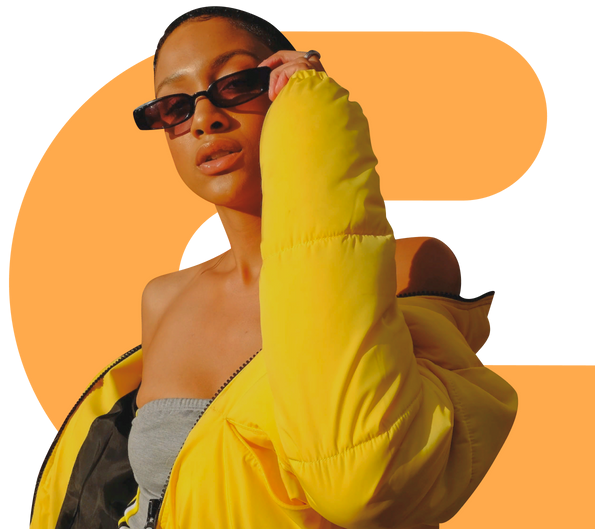
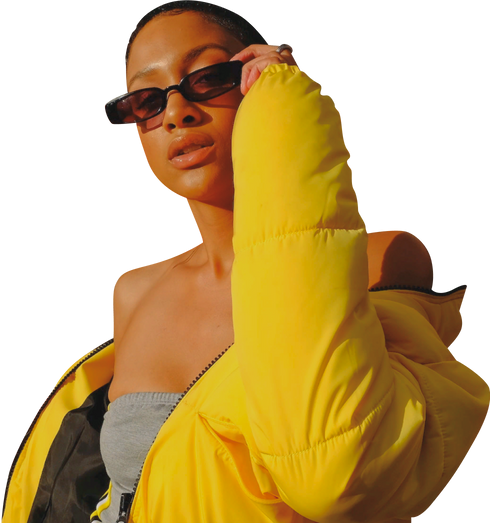
Deploying to gh-pages from @ karlbelousov/project-test@24bf2b9694bfdc0a4d0e1210f986a93ba6027265 🚀

diff --git a/css/style.css b/css/style.css
@@ -1,1 +1,1 @@
-@charset "UTF-8";*,::after,::before{box-sizing:border-box}.container{max-width:1320px;margin-left:auto;margin-right:auto}ul{margin:0;padding:0;list-style-type:none}button{padding:0;border:0;background-color:transparent;font-family:inherit;cursor:pointer}img{display:block;width:100%;height:auto}@font-face{font-family:"Outfit";src:url(../fonts/outfit/Outfit-Light.woff2)format("woff2"),url(../fonts/outfit/Outfit-Light.woff)format("woff");font-weight:300;font-style:normal;font-display:swap}@font-face{font-family:"Outfit";src:url(../fonts/outfit/Outfit-Bold.woff2)format("woff2"),url(../fonts/outfit/Outfit-Bold.woff)format("woff");font-weight:700;font-style:normal;font-display:swap}@font-face{font-family:"Outfit";src:url(../fonts/outfit/Outfit-Medium.woff2)format("woff2"),url(../fonts/outfit/Outfit-Medium.woff)format("woff");font-weight:500;font-style:normal;font-display:swap}@font-face{font-family:"Outfit";src:url(../fonts/outfit/Outfit-Regular.woff2)format("woff2"),url(../fonts/outfit/Outfit-Regular.woff)format("woff");font-weight:400;font-style:normal;font-display:swap}@font-face{font-family:"Outfit";src:url(../fonts/outfit/Outfit-SemiBold.woff2)format("woff2"),url(../fonts/outfit/Outfit-SemiBold.woff)format("woff");font-weight:600;font-style:normal;font-display:swap}.header{margin-bottom:62px}.header__nav{display:flex;justify-content:space-between;align-items:center;padding:7px 0}.page{height:100%}.page__body{margin:0;background-color:#181818;color:#fff;font-family:"Outfit",sans-serif;font-size:24px;line-height:29px;font-weight:400;display:grid;grid-template-rows:auto 1fr auto;min-height:100vh}.tabs{background-color:#ffaa4c;min-height:38px}.tabs__list{display:flex}.tabs__button{padding:9px 40px;font-size:16px;font-weight:500;line-height:20px}.button,.tabs__button--active{background-color:#181818;color:#fff;border-radius:20px 20px 0 0}.button{background-color:#954ced;font-size:20px;font-weight:600;line-height:25px;padding:16px 30px;border-radius:16px}.logo,.logo__image{display:block;width:155px;height:49px}.hero{width:100%;display:grid;grid-template-columns:671px 1fr;column-gap:64px;margin-bottom:100px}.hero__body{max-width:671px;padding-top:20px;padding-left:50px}.hero__title{font-size:96px;font-weight:700;line-height:101px;margin:0 0 20px}.hero__description{font-size:20px;line-height:24px;margin:0 0 40px}.hero__image{width:595px;height:529px}.about{margin-bottom:100px;background-image:url(../images/icons/stack.svg#about);background-size:423px 489px;background-repeat:no-repeat;background-position:left 0 bottom 0;padding-bottom:36px}.about__title{font-size:96px;font-weight:700;line-height:101px;margin:0 0 80px}.about__inner{display:grid;grid-template-columns:410px 1fr;column-gap:118px}.about__text{max-width:410px;font-size:36px;font-weight:600;line-height:45px;margin:0}.about__text-span{position:relative}.about__text-span::before{position:absolute;content:"";width:354px;height:34px;z-index:0;top:10px;left:0;background-color:#a64ced;border-radius:30px;transform:rotate(-1.6deg)}.about__text-span span{position:relative;z-index:1}.about-list{display:grid;grid-template-columns:1fr 1fr;gap:70px}.about-list__item{max-width:336px;padding-top:110px;background-position:top 0 left 0;background-size:100px 100px;background-repeat:no-repeat}.about-list__item--contactless{background-image:url(../images/icons/stack.svg#contactless)}.about-list__item--increased{background-image:url(../images/icons/stack.svg#increased)}.about-list__item--analytics{background-image:url(../images/icons/stack.svg#analytics)}.about-list__item--fraud{background-image:url(../images/icons/stack.svg#fraud)}.about-list__title{font-size:48px;font-weight:700;line-height:51px;margin:0 0 20px}.about-list__text{margin:0}
+@charset "UTF-8";@keyframes titleScrollRight{0%{right:0}to{right:-3200px}}@keyframes titleScrollLeft{0%{left:0}to{left:-3200px}}*,::after,::before{box-sizing:border-box}.container{max-width:1320px;margin:0 auto}ul{margin:0;padding:0;list-style-type:none}button{display:inline-block;padding:0;border:0;background-color:transparent;font-family:inherit;cursor:pointer}img{display:block;width:100%;height:auto}.visually-hidden{position:absolute;width:1px;height:1px;margin:-1px;border:0;padding:0;white-space:nowrap;-webkit-clip-path:inset(100%);clip-path:inset(100%);clip:rect(0 0 0 0);overflow:hidden}@font-face{font-family:"Outfit";src:url(../fonts/outfit/Outfit-Light.woff2)format("woff2"),url(../fonts/outfit/Outfit-Light.woff)format("woff");font-weight:300;font-style:normal;font-display:swap}@font-face{font-family:"Outfit";src:url(../fonts/outfit/Outfit-Bold.woff2)format("woff2"),url(../fonts/outfit/Outfit-Bold.woff)format("woff");font-weight:700;font-style:normal;font-display:swap}@font-face{font-family:"Outfit";src:url(../fonts/outfit/Outfit-Medium.woff2)format("woff2"),url(../fonts/outfit/Outfit-Medium.woff)format("woff");font-weight:500;font-style:normal;font-display:swap}@font-face{font-family:"Outfit";src:url(../fonts/outfit/Outfit-Regular.woff2)format("woff2"),url(../fonts/outfit/Outfit-Regular.woff)format("woff");font-weight:400;font-style:normal;font-display:swap}@font-face{font-family:"Outfit";src:url(../fonts/outfit/Outfit-SemiBold.woff2)format("woff2"),url(../fonts/outfit/Outfit-SemiBold.woff)format("woff");font-weight:600;font-style:normal;font-display:swap}.header{margin-bottom:62px}.header__nav{display:flex;justify-content:space-between;align-items:center;padding:7px 20px}.page{height:100%}.page__body{margin:0;background-color:#181818;color:#fff;font-family:"Outfit",sans-serif;font-size:24px;line-height:29px;font-weight:400;display:grid;grid-template-rows:auto 1fr auto;min-height:100vh}.tabs{background-color:#ffaa4c;min-height:38px}.tabs__list{display:flex}.tabs__button{padding:9px 40px;font-size:16px;font-weight:500;line-height:20px}.button,.tabs__button--active{background-color:#181818;color:#fff;border-radius:20px 20px 0 0}.button{background-color:#954ced;font-size:20px;font-weight:600;line-height:25px;padding:16px 30px;border-radius:16px}.logo,.logo__image{display:block;width:155px;height:49px}.hero{width:100%;display:grid;grid-template-columns:671px 1fr;column-gap:64px;margin-bottom:100px;padding-right:17px;background-image:url(../images/icons/stack.svg#promo);background-size:contain;background-position:350px center;background-repeat:no-repeat}.hero__body{max-width:671px;padding-top:20px;padding-left:50px}.hero__title{font-size:96px;font-weight:700;line-height:101px;margin:0 0 20px}.hero__description{font-size:20px;line-height:24px;margin:0 0 40px}.hero__image{width:490px;height:611px}.about{margin-bottom:100px;background-image:url(../images/icons/stack.svg#about);background-size:423px 489px;background-repeat:no-repeat;background-position:left 0 bottom 0;padding-bottom:36px}.about__title{font-size:96px;font-weight:700;line-height:101px;margin:0 0 80px}.about__inner{display:grid;grid-template-columns:410px 1fr;column-gap:118px}.about__text{max-width:410px;font-size:36px;font-weight:600;line-height:45px;margin:0}.about__text-span{position:relative}.about__text-span::before,.why-budss__span::before{position:absolute;content:"";width:354px;height:34px;z-index:0;top:10px;left:0;background-color:#a64ced;border-radius:30px;transform:rotate(-1.6deg)}.about__text-span span,.why-budss__span span{position:relative;z-index:1}.about-list{display:grid;grid-template-columns:1fr 1fr;gap:70px}.about-list__item{max-width:336px;padding-top:110px;background-position:top 0 left 0;background-size:100px 100px;background-repeat:no-repeat}.about-list__item--contactless{background-image:url(../images/icons/stack.svg#contactless)}.about-list__item--increased{background-image:url(../images/icons/stack.svg#increased)}.about-list__item--analytics{background-image:url(../images/icons/stack.svg#analytics)}.about-list__item--fraud{background-image:url(../images/icons/stack.svg#fraud)}.about-list__title{font-size:48px;font-weight:700;line-height:51px;margin:0 0 20px}.about-list__text{margin:0}.how-works,.how-works__inner{position:relative;overflow:hidden}.how-works{margin-bottom:100px}.how-works__inner{padding:46px 0}.how-works__title{position:relative;font-size:128px;font-weight:700;line-height:136px;margin:0}.how-works__title+.how-works__title{margin-top:68px}.how-works__title--secondary-01{color:#2fdbbc;animation:titleScrollRight 10s linear infinite}.how-works__title--primary-02{color:#a64ced;animation:titleScrollLeft 10s linear infinite}.how-works__title--secondary-02{color:#ffaa4c;animation:titleScrollRight 10s linear infinite}.how-works__image{position:absolute;width:308px;height:623px;top:0;left:50%;transform:translateX(-50%)}.stats{background-color:#954ced;padding:40px 0;margin-bottom:100px}.stats__list{display:flex;justify-content:center;column-gap:100px}.stats__list-item{max-width:220px}.stats__percent{font-size:64px;line-height:68px;font-weight:700;margin-bottom:16px}.stats__description{font-weight:600;margin:0}.why-budss{padding-bottom:100px}.why-budss__header{max-width:664px;margin:0 auto 70px;text-align:center}.why-budss__title{font-size:64px;line-height:68px;font-weight:700;margin:0 0 20px}.why-budss__description{font-size:36px;line-height:45px;font-weight:600;margin:0}.why-budss__span{position:relative}.why-budss__span::before{width:387px;top:12px;left:-.24px}.why-budss__list{display:flex;flex-wrap:wrap;align-items:center;gap:20px}.card-budss{background-color:#f5f5f5;color:#000;border-radius:30px;min-height:362px}.card-budss--1,.card-budss--4{width:733px}.card-budss--2,.card-budss--3{width:547px}.card-budss--1{position:relative}.card-budss--1 .card-budss__content{padding-left:329px}.card-budss--1 img{position:absolute;top:0;left:0;width:318px;height:365px;border-radius:30px 0 0 30px}.card-budss--2{background-image:url(../images/icons/stack.svg#cards-budss-1),url(../images/icons/stack.svg#cards-budss-2),url(../images/icons/stack.svg#cards-budss-3);background-position:right 80px,394px bottom,92px bottom;background-repeat:no-repeat;background-size:88px 167px,93px 86px,72px 64px}.card-budss--3,.card-budss--4{background-image:url(../images/icons/stack.svg#cards-budss-4);background-position:right bottom;background-repeat:no-repeat;background-size:202px 83px}.card-budss--4{background-image:url(../images/icons/stack.svg#cards-budss-5);background-position:480px bottom;background-size:210px 301px}.card-budss__content{padding-left:40px;padding-top:40px}.card-budss__title{font-size:48px;line-height:60px;font-weight:600;margin:0 0 20px}.card-budss__desctription{font-size:20px;line-height:24px;margin:0}.business-grow{background-color:#f5f5f5;color:#181818;text-align:center;padding-top:160px;padding-bottom:60px}.business-grow__title{font-size:64px;line-height:68px;font-weight:700;margin:0 0 40px}.brands{background-color:#f5f5f5;color:#000;padding:100px 0}.brands__inner{display:grid;grid-template-columns:830px auto;margin-bottom:100px}.brands__content{max-width:822px}.brands__title{font-size:96px;line-height:102px;font-weight:700;margin:0 0 20px}.brands__description{max-width:537px;font-size:20px;line-height:24px;margin:0}.brands__social{padding:45px 0}.brands__logo{display:flex;align-items:center;justify-content:space-between}.social-list{display:flex;gap:40px}.social-list__item{width:90px;height:90px;border-radius:50%;background-color:#954ced}.social-list__item:nth-child(even){align-self:flex-end}.social-list__item:nth-child(1) img{width:39px;height:72px;align-self:flex-end}.social-list__item:nth-child(2) img{height:36px}.social-list__link{display:flex;align-items:center;justify-content:center;width:90px;height:90px}.social-list__link img{width:45px;height:45px}.footer{width:100%;padding-top:40px;padding-bottom:21px}.footer__nav{display:flex;justify-content:space-between}.footer__menu{display:flex;align-items:center}.footer_menu-item{margin-right:40px;font-size:20px;line-height:25px}.footer_menu-item a{color:inherit;text-decoration:none}.footer__buttons{display:flex;align-items:center;column-gap:20px}.footer__button{font-size:20px;line-height:25px;width:195px;height:57px;background-color:#242424;color:#fff}.footer__button--appstore{background-image:url(../images/icons/stack.svg#appstore)}.footer__button--googleplay{background-image:url(../images/icons/stack.svg#googleplay)}.footer__bottom{display:flex;align-items:center;justify-content:space-between;font-size:14px;font-weight:300;line-height:20px}.footer__links{display:inline-flex;column-gap:20px}.footer__links a{text-decoration:underline;color:inherit}

diff --git a/index.html b/index.html
@@ -3,7 +3,7 @@
   <head>
     <meta charset="UTF-8">
     <title>Business</title>
-    <meta name="viewport" content="width=device-width,initial-scale=1">
+    <meta name="viewport" content="width=device-width, initial-scale=1.0">
     <link rel="stylesheet" href="css/style.css">
   </head>
   <body class="page__body">
@@ -20,7 +20,7 @@
       </div>
       <nav class="header__nav container">
         <a class="logo" href="">
-          <img class="logo__image" width="155" height="49" src="./images/logo.svg" alt="budss">
+          <img class="logo__image" width="155" height="49" src="./images/icons/stack.svg#logo" alt="budss">
         </a>
         <button class="header__button button" type="button">Contact sales</button>
       </nav>
@@ -33,11 +33,10 @@
              and retention of customers to your business.</p>
           <button class="hero__button button" type="button">Contact sales</button>
         </div>
-        <img class="hero__image" width="595" height="529" src="./images/promo-img@1x.png" alt="">
+        <img class="hero__image" width="489" height="610" src="./images/promo-img@1x.png" alt="">
       </section>
-      <section class="about">
-        <div class="container">
-          <h2 class="about__title">About Budss</h2>
+      <section class="about container">
+        <h2 class="about__title">About Budss</h2>
         <div class="about__inner">
           <p class="about__text">Payment as a service, powered seamlessly by our
             <span class="about__text-span">
@@ -64,12 +63,171 @@
            </li>
           </ul>
         </div>
+      </section>
+      <section class="how-works">
+       <h2 class="visually-hidden">How works</h2>
+       <div class="how-works__inner container">
+        <p class="how-works__title how-works__title--secondary-01">How Budss Works</p>
+        <p class="how-works__title how-works__title--primary-02">How Budss Works</p>
+        <p class="how-works__title how-works__title--secondary-02">How Budss Works</p>
+       </div>
+       <img class="how-works__image" width="308" height="623" src="./images/how-works@1x.png" alt="">
+      </section>
+      <section class="stats">
+        <h2 class="visually-hidden">Stats</h2>
+        <dl class="stats__list">
+          <div class="stats__list-item">
+            <dt class="stats__percent">15%</dt>
+            <dd class="stats__description">Increase<br> in Purchase Amount</dd>
+          </div>
+          <div class="stats__list-item">
+            <dt class="stats__percent">30%</dt>
+            <dd class="stats__description">Growth<br> in Annual Sales</dd>
+          </div>
+          <div class="stats__list-item">
+            <dt class="stats__percent">10%</dt>
+            <dd class="stats__description">Growth in New<br>Customers</dd>
+          </div>
+        </dl>
+      </section>
+      <section class="why-budss">
+        <div class="why-budss__header">
+          <h2 class="why-budss__title">Why Budss</h2>
+          <p class="why-budss__description">
+            We Provide Advanced Payment Solutions<br>
+            <span class="why-budss__span"><span>To Grow Your Business</span></span>
+          </p>
+        </div>
+        <ul class="why-budss__list container">
+          <li class="why-budss__item">
+            <article class="card-budss card-budss--1">
+              <img width="318" height="362" src="./images/card-budds-1@1x.png" alt="">
+              <div class="card-budss__content">
+                <h3 class="card-budss__title">Turn your customers into loyal influencers</h3>
+                <p class="card-budss__desctription">Budss helps businesses harness the<br> exponential power of
+                  loyal customers<br> for acquisition and retention.
+                </p>
+              </div>
+            </article>
+          </li>
+          <li class="why-budss__item">
+            <article class="card-budss card-budss--2">
+              <div class="card-budss__content">
+                <h3 class="card-budss__title">Harness the power<br> of buying in bulk</h3>
+                <p class="card-budss__desctription">Get at least 2X more sales with Budss Buying<br> Groups.
+                  Your customer base will grow<br> exponentially as your customers add their<br> friends &
+                  family to your personalized group.
+                </p>
+              </div>
+            </article>
+          </li>
+          <li class="why-budss__item">
+            <article class="card-budss card-budss--3">
+              <div class="card-budss__content">
+                <h3 class="card-budss__title">Supercharge<br> Loyalty With Instant<br> Cash Back</h3>
+                <p class="card-budss__desctription">Budss allows for shoppers to earn<br> immediate cash back at their<br>
+                  favorite stores.</p>
+              </div>
+            </article>
+          </li>
+          <li class="why-budss__item">
+            <article class="card-budss card-budss--4">
+              <div class="card-budss__content">
+                <h3 class="card-budss__title">Seasoned with AI<br> and Gamification</h3>
+                <p class="card-budss__desctription">AI programming creates a personalized<br> customer journey,
+                  offering recommendations<br> for their next purchase and optimizing<br> rewards for after purchase.
+                </p>
+              </div>
+            </article>
+          </li>
+        </ul>
+      </section>
+      <section class="business-grow">
+        <h2 class="business-grow__title">Let Your Business Grow</h2>
+        <button class="business-grow__button button" type="button">Contact sales</button>
+      </section>
+      <section class="brands">
+        <div class="container">
+          <div class="brands__inner">
+            <div class="brands__content">
+              <h2 class="brands__title">Your Brand<br> Awareness Maters</h2>
+              <p class="brands__description">Budss is a husle free solution to put your brand on any
+                 digital surface including Instagram, Facebook, Twitter and TikTok
+              </p>
+            </div>
+            <ul class="brands__social social-list">
+              <li class="social-list__item">
+                <a class="social-list__link" href="">
+                  <img src="./images/icons/stack.svg#facebook" width="38" height="72" alt="Facebook">
+                </a>
+              </li>
+              <li class="social-list__item">
+                <a class="social-list__link" href="">
+                  <img src="./images/icons/stack.svg#twitter" width="45" height="36" alt="Twitter">
+                </a>
+              </li>
+              <li class="social-list__item">
+                <a class="social-list__link" href="">
+                  <img src="./images/icons/stack.svg#instagram" width="45" height="45" alt="Instagram">
+                </a>
+              </li>
+              <li class="social-list__item">
+                <a class="social-list__link" href="">
+                  <img src="./images/icons/stack.svg#tiktok" width="38" height="45" alt="TikTok">
+                </a>
+              </li>
+            </ul>
+          </div>
+          <ul class="brands__logo">
+            <li class="brands__logo-item">
+              <img src="./images/logo-brand1.svg" width="126" height="60" alt="Woo Commerce">
+            </li>
+            <li class="brands__logo-item">
+              <img src="./images/logo-brand2.svg" width="209" height="60" alt="Spotify">
+            </li>
+            <li class="brands__logo-item">
+              <img src="./images/logo-brand3.svg" width="182" height="48" alt="Square">
+            </li>
+            <li class="brands__logo-item">
+              <img src="./images/logo-brand4.svg" width="277" height="44" alt="Squarespace">
+            </li>
+            <li class="brands__logo-item">
+              <img src="./images/logo-brand5.svg" width="184" height="46" alt="Clover">
+            </li>
+          </ul>
         </div>
       </section>
-      <section>
-
-      </section>
     </main>
+    <footer class="footer container">
+      <div class="footer__nav">
+        <a class="logo" href="">
+          <img class="logo__image" width="155" height="49" src="./images/icons/stack.svg#logo" alt="budss">
+        </a>
+        <ul class="footer__menu">
+          <li class="footer_menu-item">
+            <a href="#">For Business</a>
+          </li>
+          <li class="footer_menu-item">
+            <a href="#">For Customers</a>
+          </li>
+        </ul>
+        <div class="footer__buttons">
+          <button class="button" type="button">Contact sales</button>
+          <button class="footer__button footer__button--appstore" type="button"></button>
+          <button class="footer__button footer__button--googleplay" type="button"></button>
+        </div>
+      </div>
+      <div class="footer__bottom">
+        <p class="footer__copyright">
+          © Copyright 2023, All Rights Reserved by Budss
+        </p>
+        <div class="footer__links">
+          <a href="">Privacy Policy</a>
+          <a href="">Terms Of Use - Seller</a>
+          <a href="">Terms of Use - Sellers & Customers</a>
+        </div>
+      </div>
+    </>
     <script src="js/script.js"></script>
   </body>
 </html>
